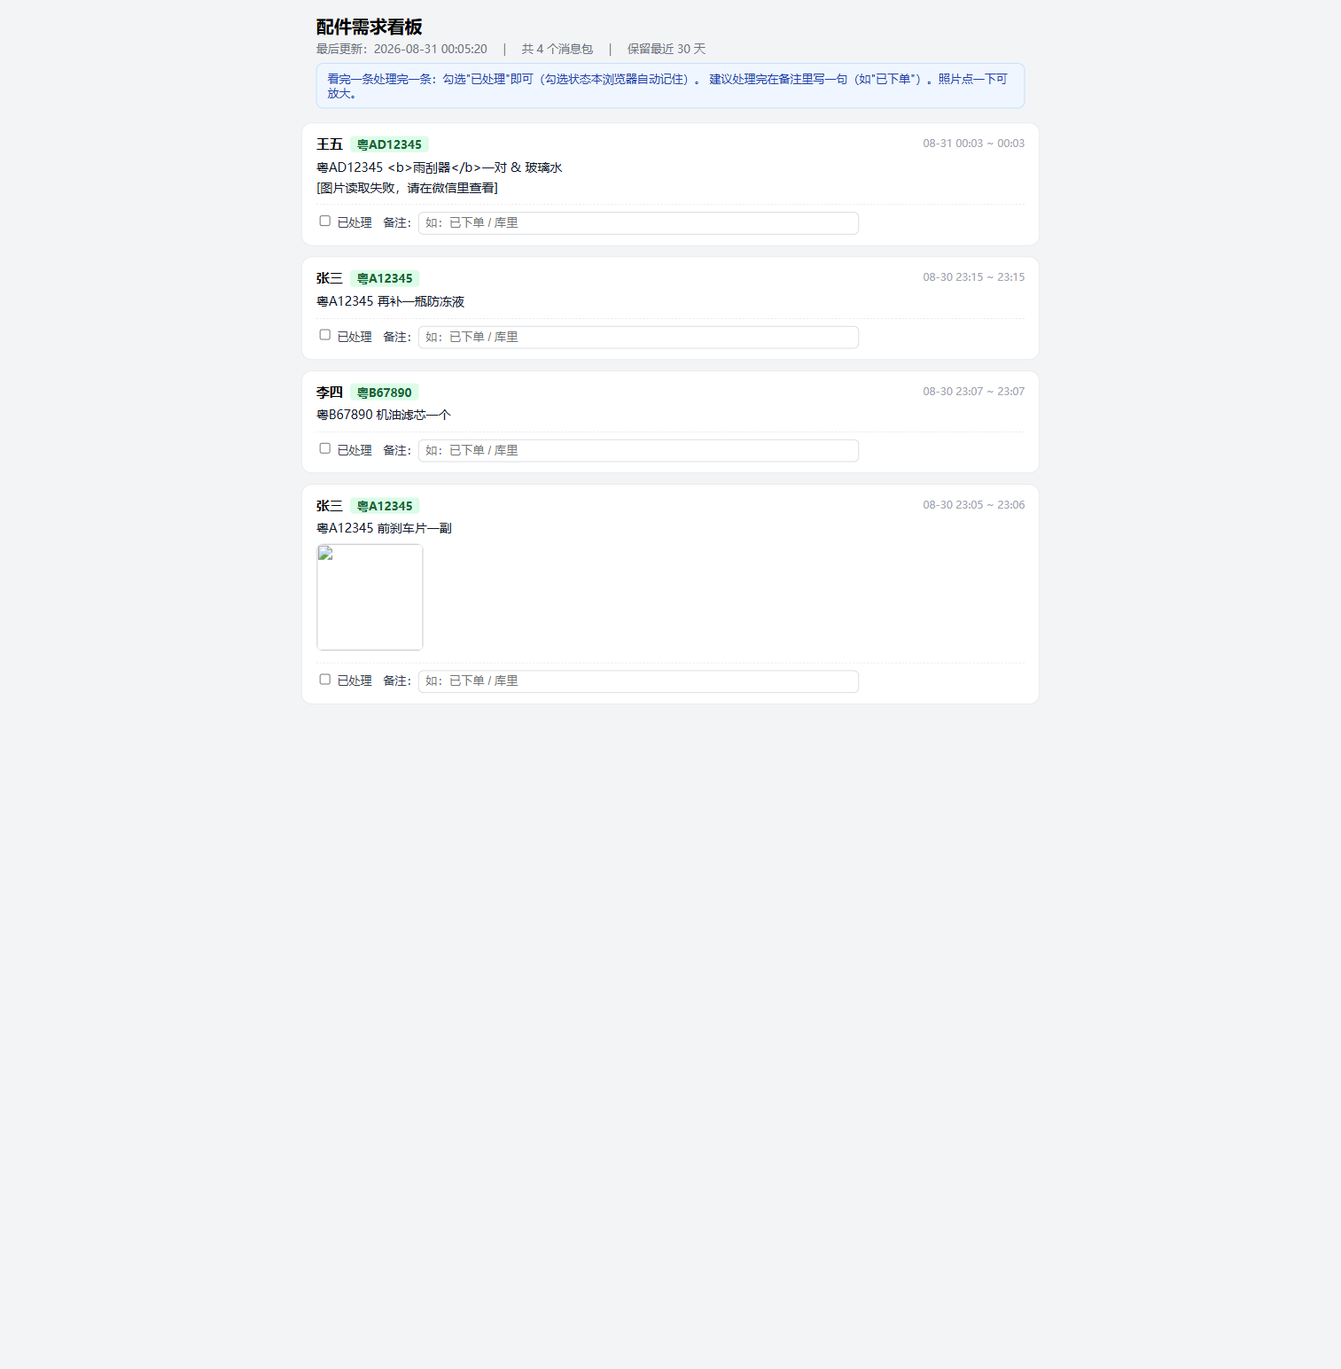
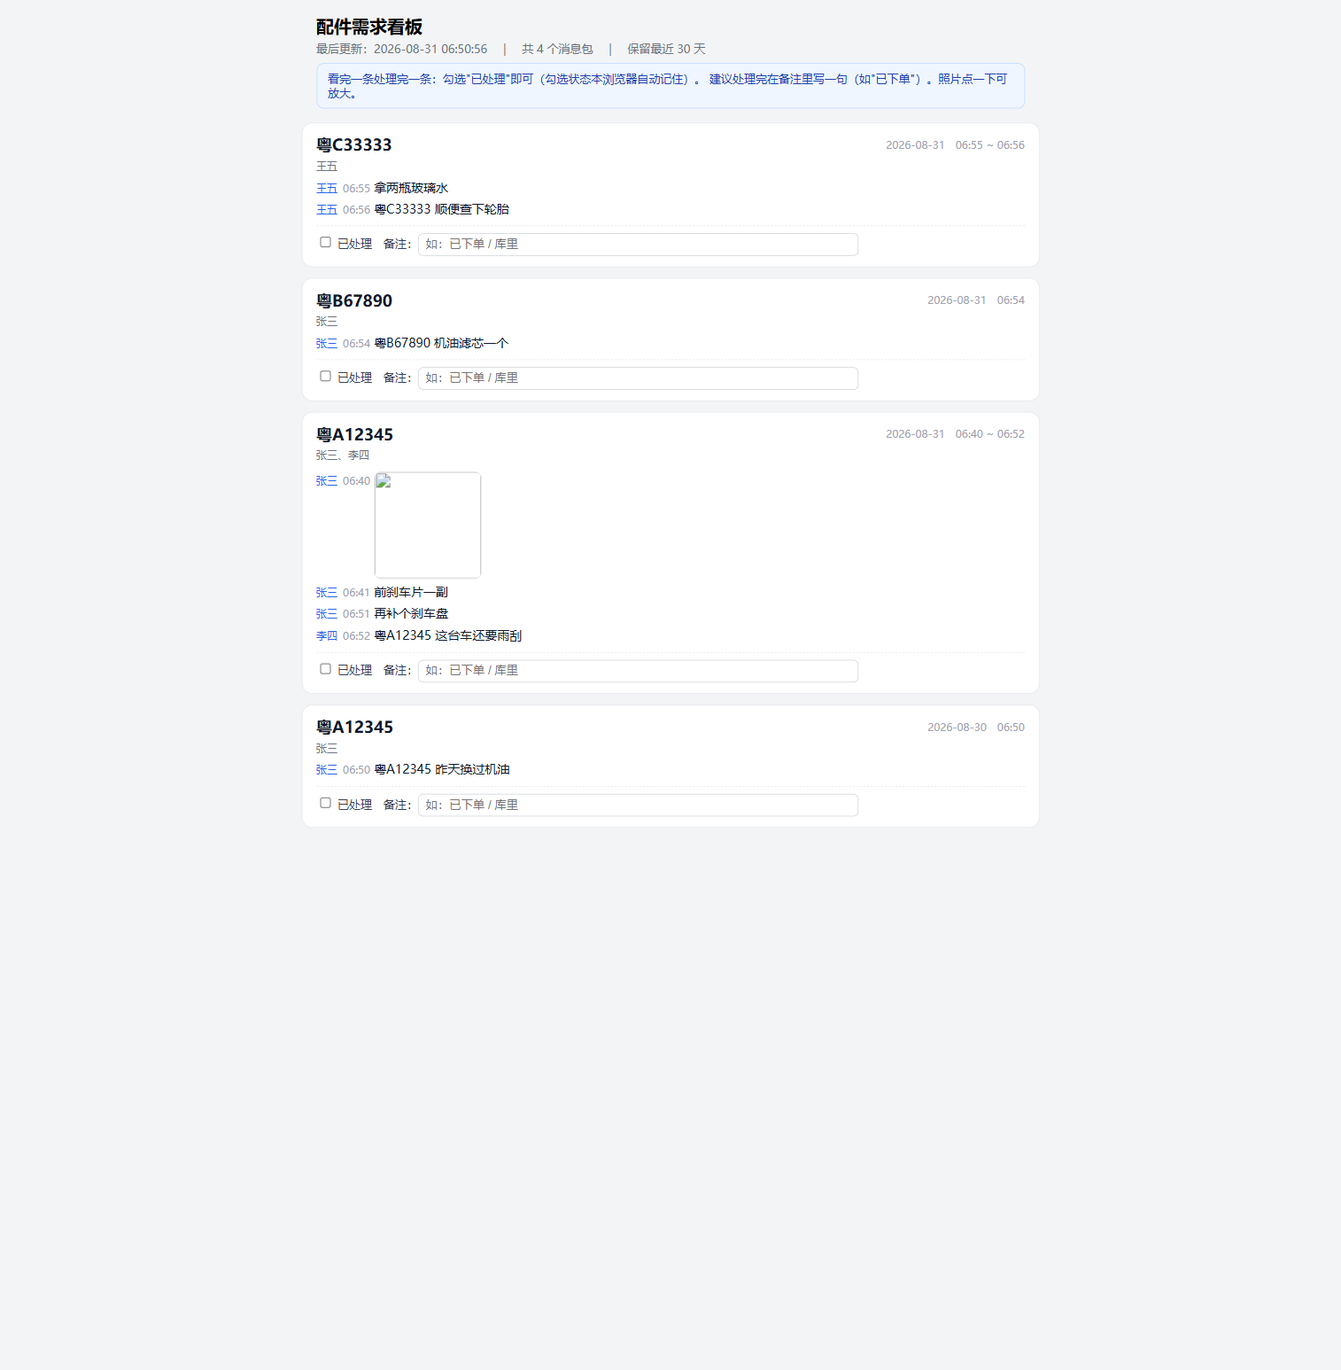
feat: 看板归堆改为按车牌归类——同车需求归一处，拍到新车牌才另起
- 归堆键改为(车牌, 自然日)：同人跨时间窗不拆包，多人报同车归同包
- 发送者"当前车辆"上下文延续；先发配件名后补车牌自动并入
- 无车牌进"未识别车牌"包，跨天自动分包
- 新增可选照片车牌 OCR（百度云接口，配置即启用，免费额度内零费用）
- 看板卡片改为车牌大标题+参与人+逐条消息行
- 12 项断言自测通过（含多人同车/向前并入/跨天分包）

diff --git a/scripts/wechat-poller/poller.py b/scripts/wechat-poller/poller.py
@@ -85,6 +85,10 @@ def 读取配置():
         "目标群列表": [g.strip() for g in 群名原文.split(",") if g.strip()],
         "轮询间隔": max(5, 解析器.getint("wechat", "interval", fallback=30)),
         "输出目录": Path(解析器.get("paths", "output", fallback="./输出")).resolve(),
+        # OCR（可选）：识别照片里的车牌，让"只拍照不打字"的消息也能正确归类
+        "OCR启用": 解析器.getboolean("ocr", "enabled", fallback=False),
+        "OCR密钥": 解析器.get("ocr", "baidu_api_key", fallback="").strip(),
+        "OCR密文": 解析器.get("ocr", "baidu_secret_key", fallback="").strip(),
     }
 
 
@@ -278,6 +282,7 @@ def 查询新消息(消息库们, 目标群id们, 游标):
                 "时间": int(创建时间 or 0),
                 "内容": 内容.strip(),
                 "图片路径": "",  # 图片消息稍后填充
+                "图片车牌": "",  # 照片 OCR 识别出的车牌（可选功能）
             })
             if 序号 > 最大序号:
                 最大序号 = 序号
@@ -286,8 +291,65 @@ def 查询新消息(消息库们, 目标群id们, 游标):
 
 
 # ============================================================
-# 图片消息处理（微信图片以加密的 .dat 文件存在硬盘上）
+# 照片车牌识别（可选，百度云车牌识别接口，免费额度内零费用）
 # ============================================================
+
+# access_token 内存缓存（有效期约 30 天，脚本运行期间只取一次）
+_百度令牌缓存 = {"令牌": "", "过期时间": 0.0}
+
+
+def 获取百度令牌(配置):
+    """用 API Key/Secret 换 access_token，失败返回空串。"""
+    import urllib.parse
+    import urllib.request
+
+    if _百度令牌缓存["令牌"] and time.time() < _百度令牌缓存["过期时间"]:
+        return _百度令牌缓存["令牌"]
+    try:
+        参数 = urllib.parse.urlencode({
+            "grant_type": "client_credentials",
+            "client_id": 配置["OCR密钥"],
+            "client_secret": 配置["OCR密文"],
+        })
+        地址 = f"https://aip.baidubce.com/oauth/2.0/token?{参数}"
+        with urllib.request.urlopen(地址, timeout=10) as 响应:
+            数据 = json.loads(响应.read().decode("utf-8"))
+        令牌 = 数据.get("access_token", "")
+        if 令牌:
+            _百度令牌缓存["令牌"] = 令牌
+            _百度令牌缓存["过期时间"] = time.time() + 数据.get("expires_in", 2592000) - 86400
+        return 令牌
+    except Exception as 异常:
+        print(f"【警告】获取 OCR 令牌失败：{异常}（本轮跳过照片识别）")
+        return ""
+
+
+def OCR识别车牌(图片文件, 配置):
+    """
+    识别图片里的车牌号。未启用/失败返回空串（不影响消息采集）。
+    """
+    if not 配置["OCR启用"] or not 配置["OCR密钥"] or not 配置["OCR密文"]:
+        return ""
+    import base64
+    import urllib.parse
+    import urllib.request
+
+    令牌 = 获取百度令牌(配置)
+    if not 令牌:
+        return ""
+    try:
+        图片数据 = base64.b64encode(Path(图片文件).read_bytes())
+        地址 = f"https://aip.baidubce.com/rest/2.0/ocr/v1/license_plate?access_token={令牌}"
+        请求体 = urllib.parse.urlencode({"image": 图片数据}).encode("utf-8")
+        with urllib.request.urlopen(地址, data=请求体, timeout=15) as 响应:
+            数据 = json.loads(响应.read().decode("utf-8"))
+        车牌 = (数据.get("words_result") or {}).get("number", "")
+        return 车牌.strip().upper()
+    except Exception as 异常:
+        print(f"【警告】照片车牌识别失败：{异常}（这张照片按无车牌处理）")
+        return ""
+
+
 
 def 寻找并解密图片(消息, 数据目录, 图片输出目录):
     """
@@ -347,67 +409,95 @@ def 寻找并解密图片(消息, 数据目录, 图片输出目录):
 
 
 # ============================================================
-# 归堆：把连续消息按"同一个人 + 时间窗口"打包
+# 归堆：按车牌归类（同一辆车的需求归到一起，拍到新车牌才另起一堆）
 # ============================================================
+
+def 提取消息车牌(消息):
+    """文字里正则识别，或照片 OCR 结果。返回车牌号，没有返回空串。"""
+    if 消息["内容"]:
+        命中 = 车牌正则.findall(消息["内容"].upper())
+        if 命中:
+            return 命中[0]
+    return 消息.get("图片车牌", "") or ""
+
 
 def 归堆成需求包(消息列表):
     """
-    把消息列表按时间排序后，同一个人、相邻间隔不超过归堆窗口的消息归为一包。
-    返回需求包列表（新的在前）。每个包含：包id、发送者、起止时间、文字列表、图片列表、识别到的车牌。
+    归堆规则（按车牌归类）：
+    1. 消息里识别到车牌 → 归入该车牌的包，并成为该发送者的"当前车辆"
+    2. 没带车牌 → 归入该发送者"当前车辆"的包（跟着上一条车牌走）
+    3. 还没有任何车辆上下文 → 进该发送者的"未识别车牌"包
+    4. 同一车牌跨自然日自动分包（昨天的需求归昨天）
+    5. 先发消息、后补车牌的，此人最近半小时的未识别包自动并入车牌包
+    返回需求包列表（最新活跃的在前）。
     """
     排序后 = sorted(消息列表, key=lambda m: (m["时间"], m["id"]))
 
-    包们 = []
-    当前包 = None
-    for 消息 in 排序后:
-        # 系统消息（入群通知等）不进包，直接跳过
-        if 消息["类型"] == 消息类型_系统:
-            continue
+    包们 = {}          # 包键 -> 包
+    包顺序 = []        # 记录创建顺序（最后按活跃时间重排）
+    每人当前车辆 = {}  # 发送者 -> (车牌, 日期)
+    每人未识别包 = {}  # 发送者 -> 其未识别包的包键
 
-        属于当前包 = (
-            当前包 is not None
-            and 消息["发送者"] == 当前包["发送者"]
-            and 消息["群id"] == 当前包["群id"]
-            and 消息["时间"] - 当前包["结束时间"] <= 归堆窗口秒
-        )
-        if not 属于当前包:
-            当前包 = {
-                "包id": f"{消息['id']}_{消息['发送者']}",
-                "发送者": 消息["发送者"],
-                "群id": 消息["群id"],
+    def 取包(键, 车牌, 日期, 消息):
+        if 键 not in 包们:
+            包们[键] = {
+                "包id": f"{车牌}_{日期}" if 车牌 else f"未识别_{日期}_{消息['发送者']}",
+                "车牌": 车牌,
+                "日期": 日期,
                 "开始时间": 消息["时间"],
                 "结束时间": 消息["时间"],
-                "文字列表": [],
-                "图片列表": [],
+                "消息们": [],
             }
-            包们.append(当前包)
-        当前包["结束时间"] = 消息["时间"]
+            包顺序.append(键)
+        return 包们[键]
 
-        if 消息["类型"] == 消息类型_图片:
-            if 消息["图片路径"]:
-                当前包["图片列表"].append(消息["图片路径"])
+    for 消息 in 排序后:
+        if 消息["类型"] == 消息类型_系统:
+            continue
+        日期 = datetime.fromtimestamp(消息["时间"]).strftime("%Y-%m-%d") if 消息["时间"] else "未知日期"
+        车牌 = 提取消息车牌(消息)
+        发送者 = 消息["发送者"]
+
+        if 车牌:
+            # 规则 5：先发配件名、后补车牌 → 此人最近的未识别包并过来
+            旧键 = 每人未识别包.pop(发送者, None)
+            if 旧键 and 旧键 in 包们:
+                旧包 = 包们[旧键]
+                if 0 <= 消息["时间"] - 旧包["结束时间"] <= 30 * 60:
+                    车牌包 = 取包((车牌, 日期), 车牌, 日期, 消息)
+                    车牌包["消息们"].extend(旧包["消息们"])
+                    车牌包["开始时间"] = min(车牌包["开始时间"], 旧包["开始时间"])
+                    del 包们[旧键]
+                    包顺序.remove(旧键)
+            每人当前车辆[发送者] = (车牌, 日期)
+            键 = (车牌, 日期)
+        else:
+            当前 = 每人当前车辆.get(发送者)
+            if 当前 and 当前[1] == 日期:
+                # 跟着此人今天的"当前车辆"走
+                键 = (当前[0], 日期)
             else:
-                当前包["文字列表"].append("[图片读取失败，请在微信里查看]")
-        elif 消息["类型"] == 消息类型_文本 and 消息["内容"]:
-            当前包["文字列表"].append(消息["内容"])
-        elif 消息["类型"] == 消息类型_语音:
-            当前包["文字列表"].append("[语音消息，请在微信里收听]")
-        elif 消息["类型"] == 消息类型_视频:
-            当前包["文字列表"].append("[视频，请在微信里查看]")
-        elif 消息["类型"] == 消息类型_应用 and 消息["内容"]:
-            # 引用/链接类消息，截取一小段提示
-            摘要 = re.sub(r"<[^>]+>", " ", 消息["内容"])
-            摘要 = re.sub(r"\s+", " ", 摘要).strip()[:60]
-            if 摘要:
-                当前包["文字列表"].append(f"[链接/引用] {摘要}")
+                # 没有任何车牌上下文，进此人当天的未识别包
+                键 = (None, 日期, 发送者)
+                每人未识别包[发送者] = 键
 
-    # 从文字里识别车牌号
-    for 包 in 包们:
-        全部文字 = " ".join(包["文字列表"])
-        包["车牌列表"] = sorted(set(车牌正则.findall(全部文字.upper())))
+        包 = 取包(键, 车牌, 日期, 消息)
+        包["消息们"].append(消息)
+        包["结束时间"] = 消息["时间"]
 
-    包们.sort(key=lambda p: p["开始时间"], reverse=True)
-    return 包们
+    结果 = []
+    for 键 in 包顺序:
+        包 = 包们[键]
+        包["消息们"].sort(key=lambda m: (m["时间"], m["id"]))
+        发送者们 = []
+        for 单条 in 包["消息们"]:
+            if 单条["发送者"] not in 发送者们:
+                发送者们.append(单条["发送者"])
+        包["发送者列表"] = 发送者们
+        结果.append(包)
+
+    结果.sort(key=lambda p: p["结束时间"], reverse=True)
+    return 结果
 
 
 # ============================================================
@@ -430,15 +520,17 @@ def 归堆成需求包(消息列表):
   .包卡片 {{ max-width: 800px; margin: 0 auto 12px; background: #fff; border-radius: 12px;
             border: 1px solid #e5e7eb; padding: 12px 16px; }}
   .包卡片.已处理 {{ opacity: 0.45; }}
-  .包头部 {{ display: flex; justify-content: space-between; align-items: center; margin-bottom: 6px; }}
-  .发送人 {{ font-weight: 600; font-size: 15px; }}
-  .车牌标签 {{ display: inline-block; background: #dcfce7; color: #166534; border-radius: 4px;
-              padding: 1px 8px; font-size: 13px; font-weight: 600; margin-left: 8px; }}
+  .包头部 {{ display: flex; justify-content: space-between; align-items: center; margin-bottom: 4px; }}
+  .车牌标题 {{ font-size: 18px; font-weight: 700; color: #111827; }}
+  .车牌标题.未识别 {{ color: #b45309; font-size: 15px; }}
+  .参与人 {{ color: #6b7280; font-size: 12px; margin-bottom: 6px; }}
   .时刻 {{ color: #9ca3af; font-size: 12px; }}
-  .文字行 {{ font-size: 14px; color: #111827; margin: 4px 0; white-space: pre-wrap; word-break: break-all; }}
-  .照片墙 {{ display: flex; flex-wrap: wrap; gap: 8px; margin-top: 8px; }}
-  .照片墙 img {{ width: 120px; height: 120px; object-fit: cover; border-radius: 8px;
-                border: 1px solid #e5e7eb; cursor: zoom-in; }}
+  .消息行 {{ font-size: 14px; color: #111827; margin: 5px 0; white-space: pre-wrap; word-break: break-all; }}
+  .消息行 .人名 {{ color: #2563eb; font-size: 12px; margin-right: 6px; }}
+  .消息行 .点钟 {{ color: #9ca3af; font-size: 12px; margin-right: 4px; }}
+  .行内图 {{ display: inline-block; margin: 4px 8px 0 0; }}
+  .行内图 img {{ width: 120px; height: 120px; object-fit: cover; border-radius: 8px;
+                border: 1px solid #e5e7eb; cursor: zoom-in; vertical-align: top; }}
   .处理行 {{ margin-top: 10px; border-top: 1px dashed #e5e7eb; padding-top: 8px; font-size: 13px; color: #374151; }}
   .处理行 input[type=text] {{ width: 60%; padding: 4px 8px; border: 1px solid #d1d5db; border-radius: 6px; }}
   .空提示 {{ max-width: 800px; margin: 40px auto; text-align: center; color: #9ca3af; }}
@@ -475,11 +567,11 @@ document.querySelectorAll(".包卡片").forEach(function(卡片) {{
 
 包卡片模板 = """<div class="包卡片" data-包id="{包id}">
   <div class="包头部">
-    <div><span class="发送人">{发送人}</span>{车牌标签}</div>
-    <div class="时刻">{起止时间}</div>
+    <div class="{标题样式}">{标题}</div>
+    <div class="时刻">{日期}　{起止时间}</div>
   </div>
-  {文字html}
-  {照片墙html}
+  <div class="参与人">{参与人}</div>
+  {消息html}
   <div class="处理行">
     <label><input type="checkbox"> 已处理</label>　备注：<input type="text" placeholder="如：已下单 / 库里">
   </div>
@@ -487,30 +579,54 @@ document.querySelectorAll(".包卡片").forEach(function(卡片) {{
 """
 
 
+def 渲染消息行(单条, 昵称表):
+    """把一条消息渲染成看板里的一行：发送人 + 时间 + 内容/图片。"""
+    人名 = 昵称表.get(单条["发送者"], "") or ("我自己" if 单条["发送者"] == "__自己__" else 单条["发送者"][-6:] if 单条["发送者"] else "未知")
+    点钟 = datetime.fromtimestamp(单条["时间"]).strftime("%H:%M") if 单条["时间"] else ""
+    前缀 = f'<span class="人名">{html.escape(人名)}</span><span class="点钟">{点钟}</span>'
+
+    if 单条["类型"] == 消息类型_图片:
+        if 单条["图片路径"]:
+            名 = html.escape(单条["图片路径"])
+            return f'<div class="消息行">{前缀}<span class="行内图"><a href="images/{名}" target="_blank"><img src="images/{名}" loading="lazy"></a></span></div>'
+        return f'<div class="消息行">{前缀}[图片读取失败，请在微信里查看]</div>'
+    if 单条["类型"] == 消息类型_文本 and 单条["内容"]:
+        return f'<div class="消息行">{前缀}{html.escape(单条["内容"])}</div>'
+    if 单条["类型"] == 消息类型_语音:
+        return f'<div class="消息行">{前缀}[语音消息，请在微信里收听]</div>'
+    if 单条["类型"] == 消息类型_视频:
+        return f'<div class="消息行">{前缀}[视频，请在微信里查看]</div>'
+    if 单条["类型"] == 消息类型_应用 and 单条["内容"]:
+        摘要 = re.sub(r"<[^>]+>", " ", 单条["内容"])
+        摘要 = re.sub(r"\s+", " ", 摘要).strip()[:60]
+        if 摘要:
+            return f'<div class="消息行">{前缀}[链接/引用] {html.escape(摘要)}</div>'
+    return ""
+
+
 def 生成看板(包们, 昵称表, 输出目录):
     """根据需求包列表生成自包含的 HTML 看板文件。所有用户来源文本先转义再进 HTML。"""
     卡片们 = []
     for 包 in 包们:
-        发送人显示 = 昵称表.get(包["发送者"], "") or ("我自己" if 包["发送者"] == "__自己__" else 包["发送者"][-6:] if 包["发送者"] else "未知")
-        发送人显示 = html.escape(发送人显示)
-        车牌标签 = "".join(f'<span class="车牌标签">{html.escape(p)}</span>' for p in 包["车牌列表"])
-        开始 = datetime.fromtimestamp(包["开始时间"]).strftime("%m-%d %H:%M") if 包["开始时间"] else ""
+        if 包["车牌"]:
+            标题 = html.escape(包["车牌"])
+            标题样式 = "车牌标题"
+        else:
+            标题 = "未识别车牌"
+            标题样式 = "车牌标题 未识别"
+        参与人 = "、".join(
+            html.escape(昵称表.get(s, "") or ("我自己" if s == "__自己__" else s[-6:] if s else "未知"))
+            for s in 包["发送者列表"]
+        )
+        开始 = datetime.fromtimestamp(包["开始时间"]).strftime("%H:%M") if 包["开始时间"] else ""
         结束 = datetime.fromtimestamp(包["结束时间"]).strftime("%H:%M") if 包["结束时间"] else ""
         起止时间 = f"{开始} ~ {结束}" if 开始 != 结束 else 开始
 
-        文字html = "".join(f'<div class="文字行">{html.escape(行)}</div>' for 行 in 包["文字列表"])
-        if 包["图片列表"]:
-            照片们 = "".join(
-                f'<a href="images/{html.escape(名)}" target="_blank"><img src="images/{html.escape(名)}" loading="lazy"></a>'
-                for 名 in 包["图片列表"]
-            )
-            照片墙html = f'<div class="照片墙">{照片们}</div>'
-        else:
-            照片墙html = ""
+        消息html = "".join(渲染消息行(单条, 昵称表) for 单条 in 包["消息们"])
 
         卡片们.append(包卡片模板.format(
-            包id=html.escape(包["包id"]), 发送人=发送人显示, 车牌标签=车牌标签,
-            起止时间=起止时间, 文字html=文字html, 照片墙html=照片墙html,
+            包id=html.escape(包["包id"]), 标题=标题, 标题样式=标题样式, 日期=包["日期"],
+            起止时间=起止时间, 参与人=参与人, 消息html=消息html,
         ))
 
     看板html = 看板模板.format(
@@ -702,10 +818,15 @@ def 主循环(配置):
 
             if 新消息们:
                 print(f"[{datetime.now().strftime('%H:%M:%S')}] 收到 {len(新消息们)} 条新消息")
-                # 图片消息逐条尝试解密
+                # 图片消息逐条尝试解密；解密成功且启用了 OCR 时识别照片里的车牌
                 for 消息 in 新消息们:
                     if 消息["类型"] == 消息类型_图片:
                         消息["图片路径"] = 寻找并解密图片(消息, 数据目录, 图片目录)
+                        if 消息["图片路径"] and 配置["OCR启用"]:
+                            车牌 = OCR识别车牌(图片目录 / 消息["图片路径"], 配置)
+                            if 车牌:
+                                消息["图片车牌"] = 车牌
+                                print(f"  照片识别出车牌：{车牌}")
                 历史消息.extend(新消息们)
                 历史消息 = 清理过期消息(历史消息)
                 保存历史消息(输出目录, 历史消息)

diff --git a/scripts/wechat-poller/README.md b/scripts/wechat-poller/README.md
@@ -8,9 +8,12 @@
 车间同事在微信群里面发"哪台车需要什么配件"（拍车牌照片 + 打字说配件名）。
 这个工具会自动盯着群消息，把消息整理成一个**网页看板**：
 
-- 同一个同事连续发的消息（照片+文字）自动归成一组
-- 文字里出现的车牌号自动标出来
+- **按车牌归类**：消息里写了车牌（或照片识别出车牌）后，这个人后面没写车牌的消息自动跟到同一辆车下；拍到新车牌才另起一堆。多个人报同一辆车的需求，也归在同一辆车下面
+- 同一辆车**跨天**会分成不同的组（昨天的归昨天）
+- 一直没提车牌的消息进"未识别车牌"组，发了车牌后会自动并过去
 - 处理完一条打个勾，浏览器会记住
+
+**给车间同事的一句话**：发需求时尽量在**文字里带一句车牌号**（比如"粤A12345 前刹车片一副"），这样归类 100% 准；只拍照片不打字的话，需要开启下面的车牌识别功能才能自动归类。
 
 看板是一个网页文件，**双击就能打开看**，不用装任何东西。
 
@@ -80,6 +83,21 @@
 1. 按 `Win + R`，输入 `shell:startup` 回车
 2. 把文件夹里现成的 `启动采集.bat` 复制一份快捷方式放进去
 3. 以后电脑开机登录后会自动开始采集（注意微信也要设置开机自启并自动登录）
+
+## 可选：开启照片车牌识别
+
+不开也能用（文字里写了车牌就能归类）。开了以后，**只拍车牌照片不打字**的消息也能自动归到对应车牌下。用的是百度云的车牌识别接口，每天有免费额度，厂里一天的用量用不完，不花钱。
+
+1. 注册百度云账号：https://cloud.baidu.com/ （手机号注册，选"个人"即可）
+2. 进控制台，搜索"车牌识别"，按提示**领取免费额度**（一般是 1000 次/天）
+3. 创建一个应用，拿到 **API Key** 和 **Secret Key** 两串字符
+4. 打开 `config.ini`，把 `[ocr]` 一节改成：
+   ```ini
+   enabled = true
+   baidu_api_key = 你的API Key
+   baidu_secret_key = 你的Secret Key
+   ```
+5. 重新启动采集。之后在群里发一张车牌照片测试，看板应该自动归到该车牌下
 
 ## 常见问题
 
